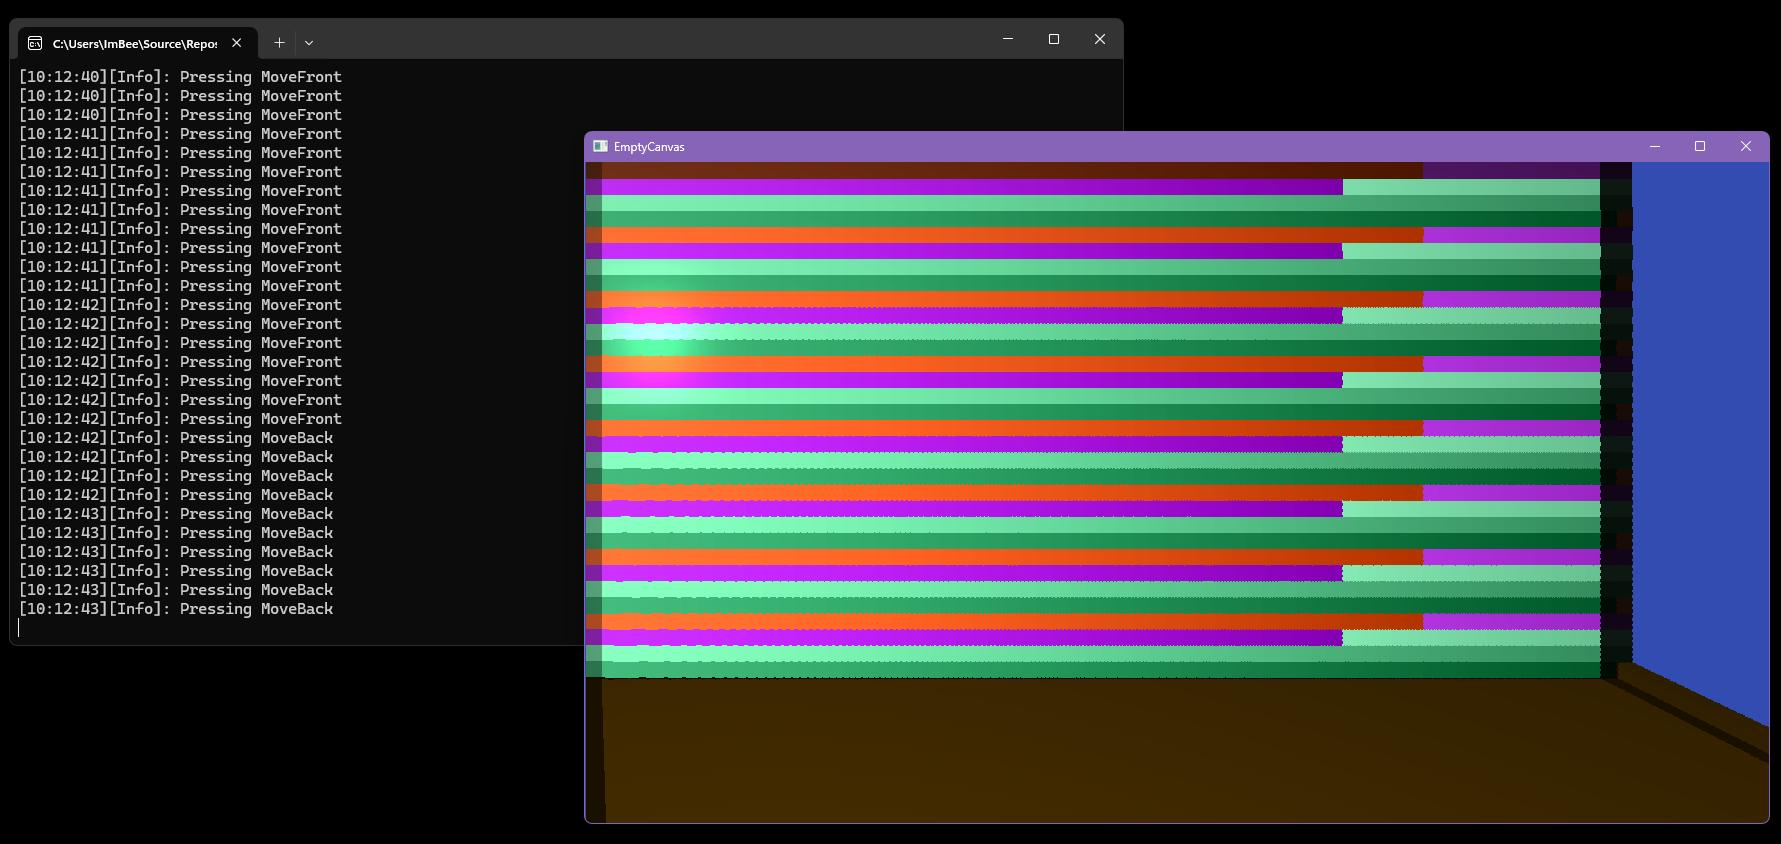
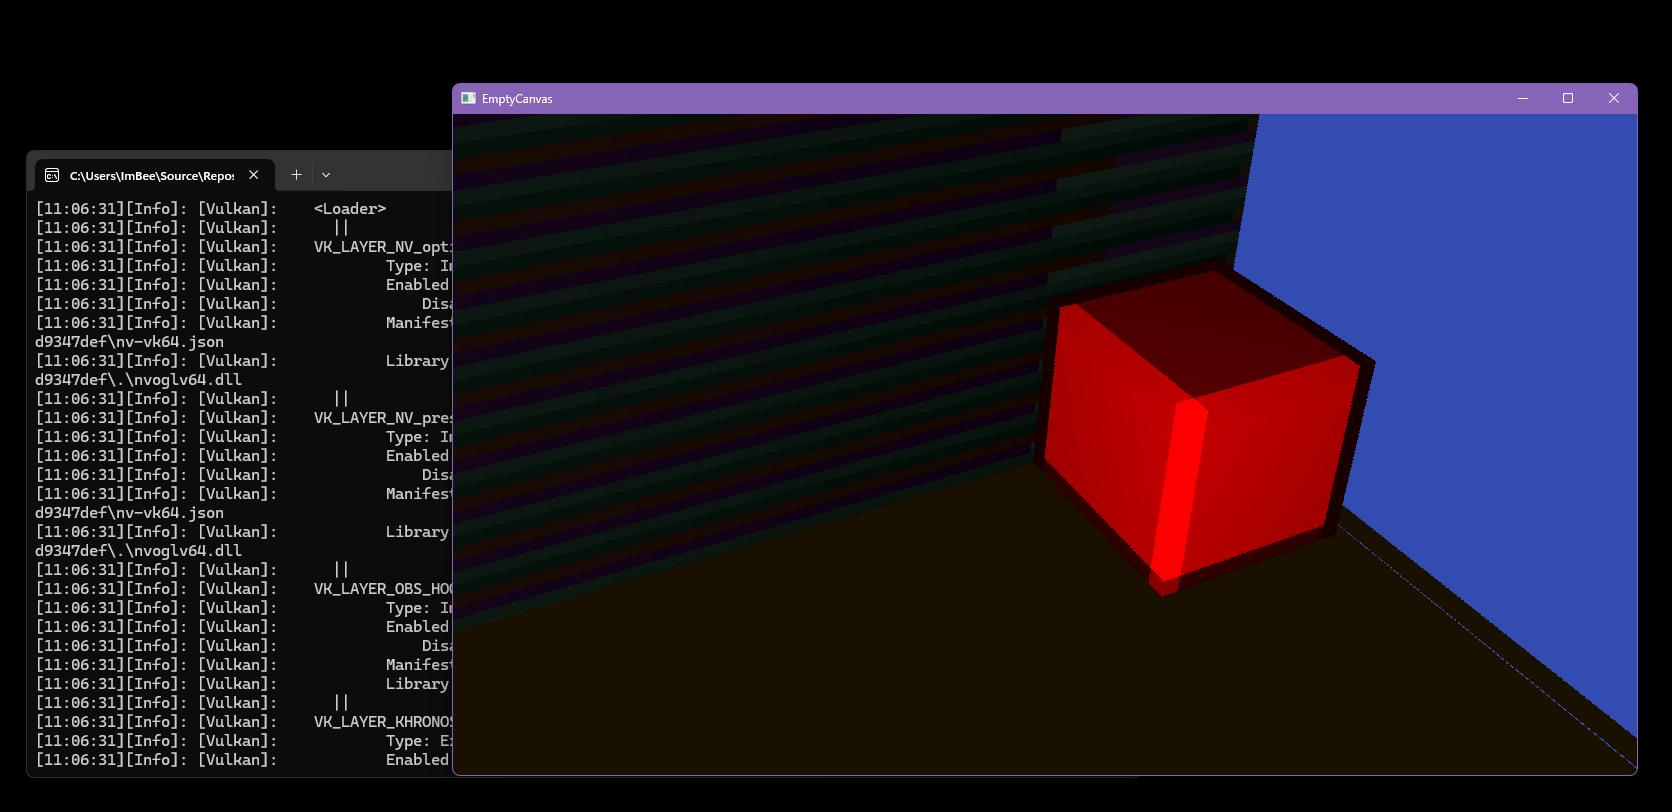
Better angle

diff --git a/Engine/Voxels/Private/Raycaster/VoxelGrid.cpp b/Engine/Voxels/Private/Raycaster/VoxelGrid.cpp
@@ -50,7 +50,7 @@ vector<Voxel> VoxelGrid::GenerateGrid(size_t uGridWidth)
     uCubeStart = 33;
     uCubeEnd = 44;
     for (size_t z = 0; z < uDim; ++z) {
-        for (size_t y = 32; y < 64; ++y) {
+        for (size_t y = 63; y < 64; ++y) {
             for (size_t x = 0; x < uDim; ++x) {
                 uIndex = x +
                     y * uDim +

diff --git a/Project/Source/main.cpp b/Project/Source/main.cpp
@@ -46,7 +46,7 @@ int main()
 
     input.StartCapturing();
     
-    pwc->SetRotation(Voxels::Vec3 { 1., 0., 1. });
+    pwc->SetRotation(Voxels::Vec3 { 0.5, 0.5, 1. });
 
     render.SetCurrentCamera(::std::dynamic_pointer_cast<Voxels::Camera>(pwc));
     render.Initialize(window.GetWindowDesc());
